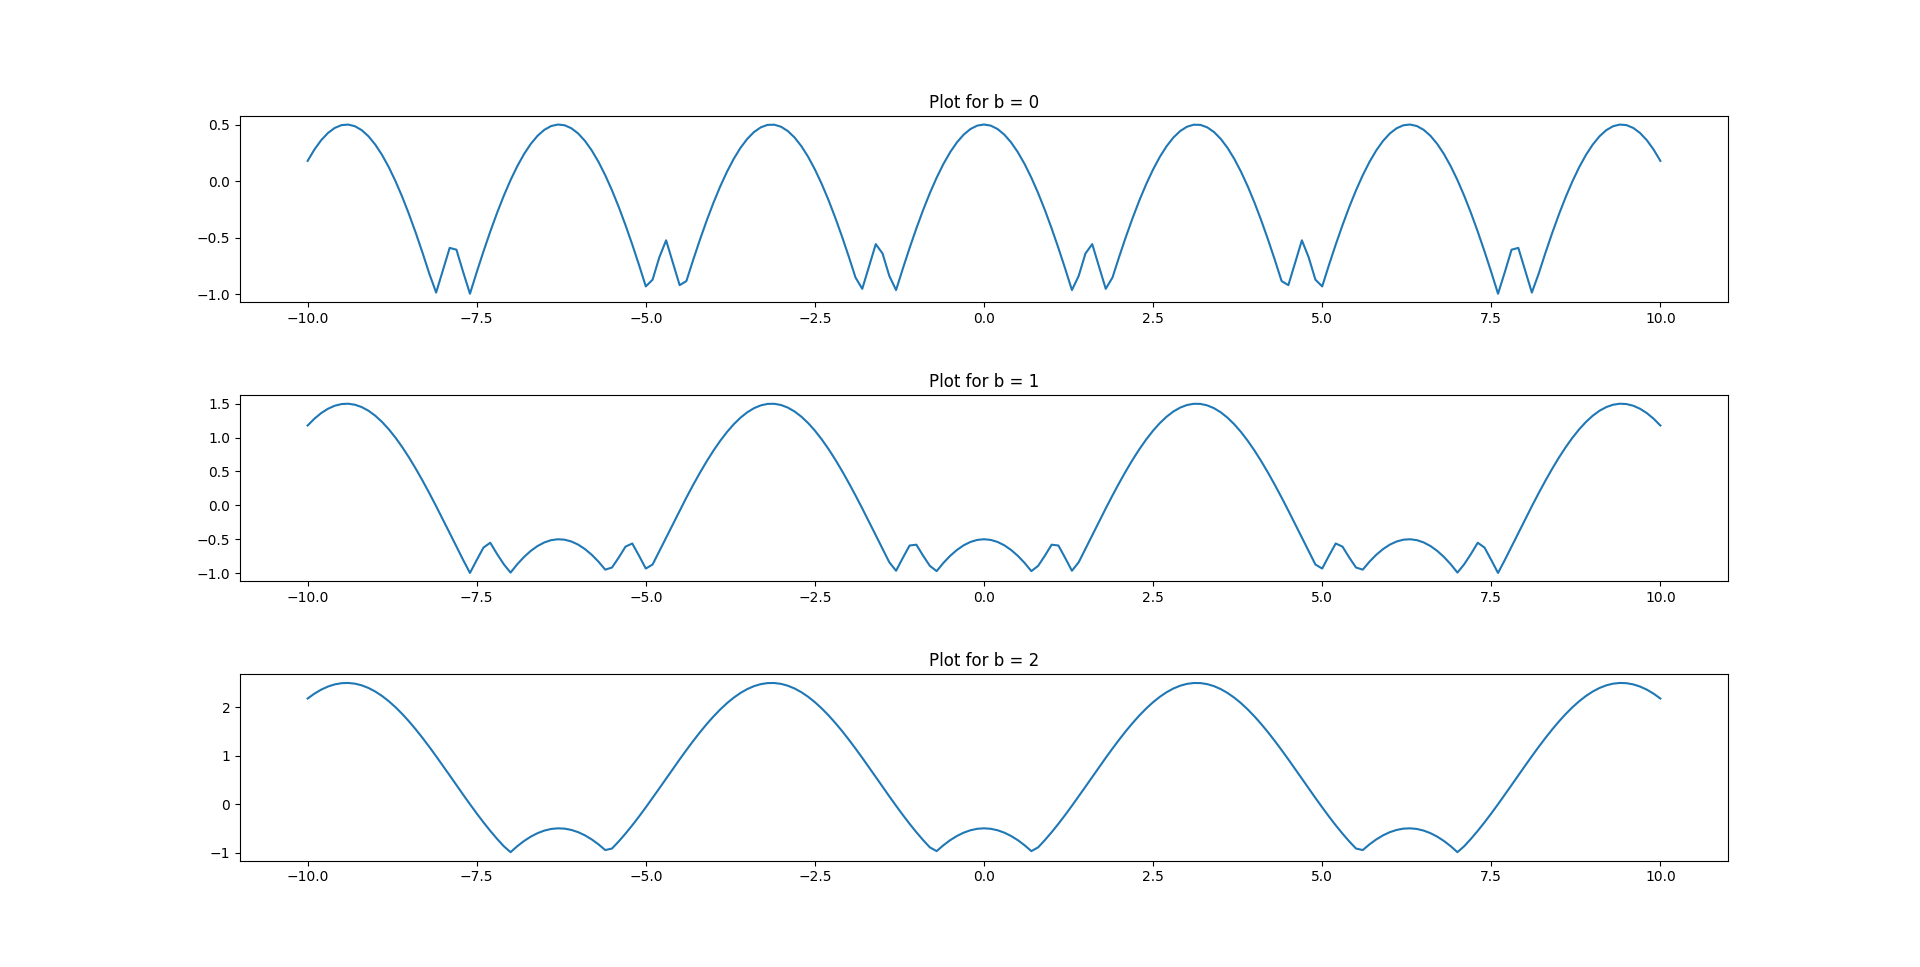
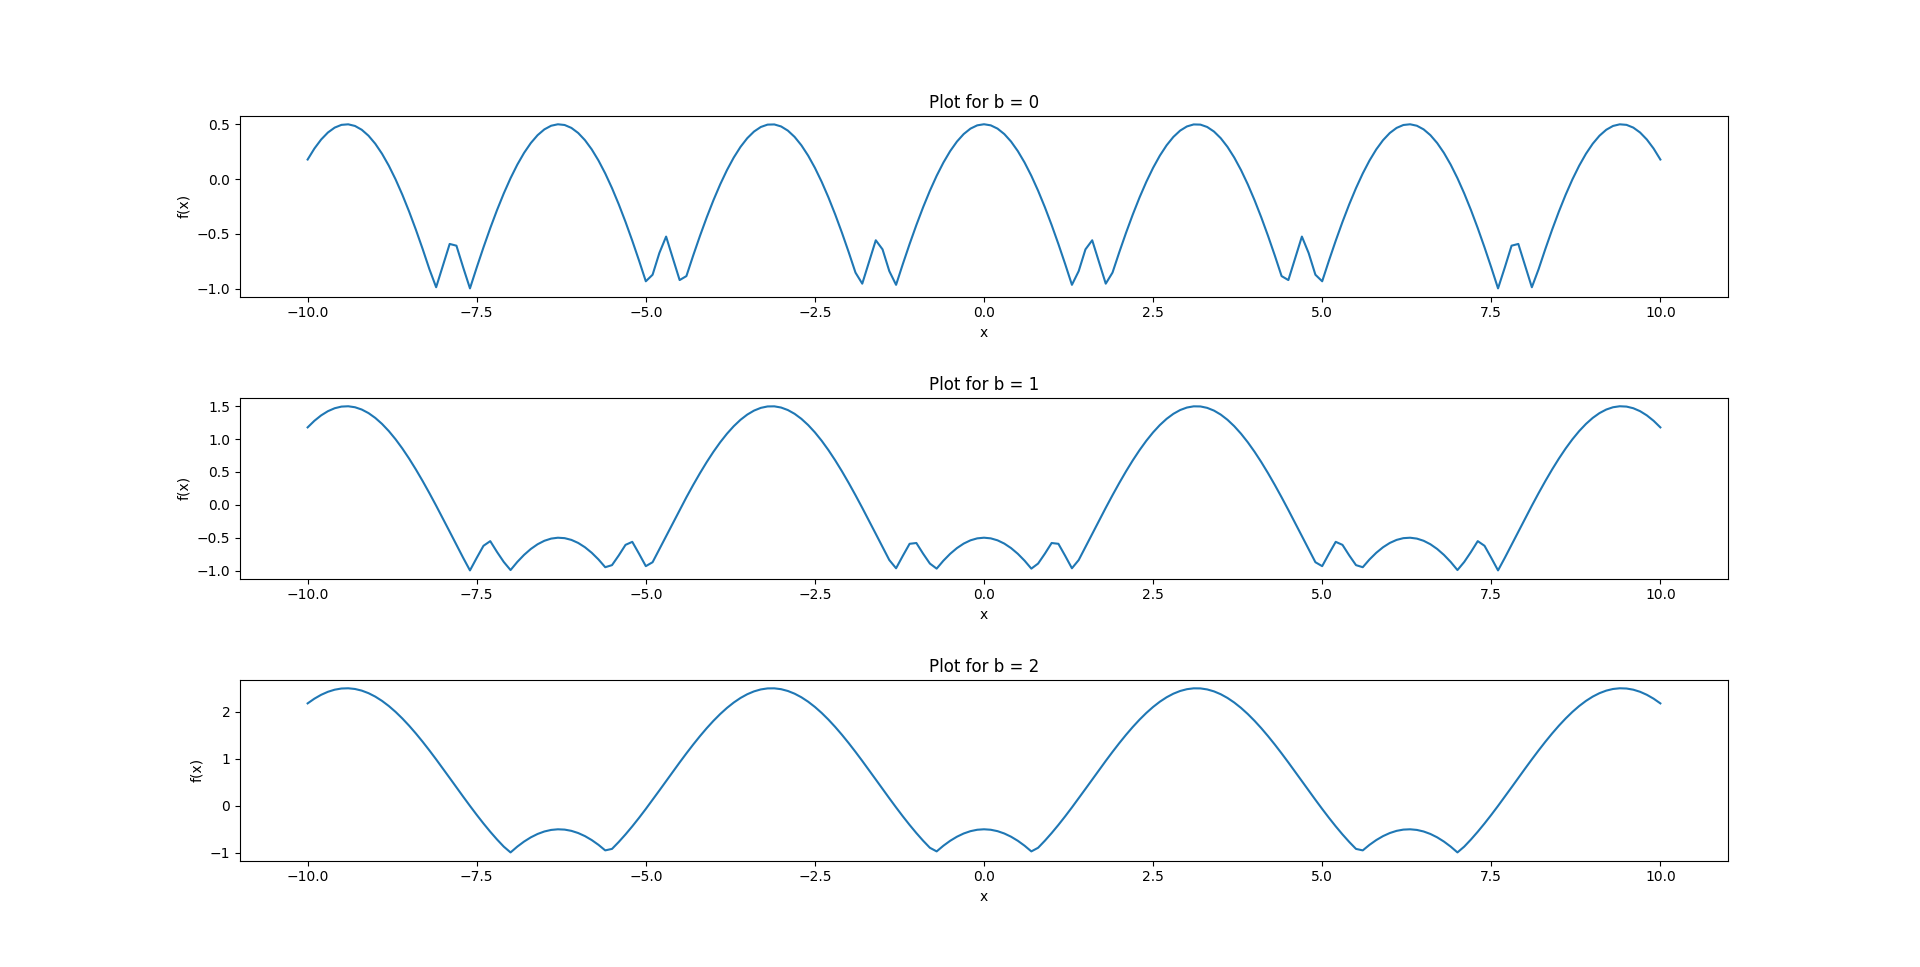
doin a little hw

diff --git a/assignments/HW2C.py b/assignments/HW2C.py
@@ -1,5 +1,6 @@
 import numpy as np
 import matplotlib.pyplot as plt
+import math
 #QUESTION 1 ---------------------
 
 #1A
@@ -46,27 +47,80 @@ for xn in xvals:
     yvals2 = np.append(yvals2, y2_xn)
     
     
-#1C
+#1C ----- WRITTEN STUFF
 
-fig = plt.subplot(311)
-plt.plot(xvals,yvals0)
-plt.title("Plot for b = 0")
-plt.xlabel('x')
-plt.ylabel('f(x)')
+# fig = plt.subplot(311)
+# plt.plot(xvals,yvals0)
+# plt.xlabel('x')
+# plt.ylabel('f(x)')
+# plt.title("Plot for b = 0")
+
+# fig = plt.subplot(312)
+# plt.plot(xvals,yvals1)
+# plt.title("Plot for b = 1")
+# plt.xlabel('x')
+# plt.ylabel('f(x)')
+
+# fig = plt.subplot(313)
+# plt.plot(xvals,yvals2)
+# plt.title("Plot for b = 2")
+# plt.xlabel('x')
+# plt.ylabel('f(x)')
+
+#plt.show()
 
 
-fig = plt.subplot(312)
-plt.plot(xvals,yvals1)
-plt.title("Plot for b = 1")
-plt.xlabel('x')
-plt.ylabel('f(x)')
+#QUESTION 2
+
+#2B
+
+def T(x,n):
+    taylor_sum = 0
+    for k in range(n + 1): #ranges from 0 to n
+        term = ((-1)**k / math.factorial(2*k)) * x**(2*k)
+        taylor_sum = (taylor_sum + term)
+        
+    return taylor_sum
+
+#2C
+# find T0(2), T1(3), and T2(-1) by plugging the appropriate values of x and n into your T(x,n) function. call these values T02, T13, and T2m1 respectively
+
+T02 = T(2,0)
+T13 = T(3,1)
+T2m1 = T(-1,2)
+
+# print("T02: ", T02)
+# print("T13: ", T13)
+# print("T2m1: ", T2m1)
+
+#2D
+xtaylor = np.linspace(-np.pi, np.pi, 51)
+print (xtaylor)
+
+#2E
+rows = []
+for n in range(6): #goes from 0 to 5
+    row = T(xtaylor, n) #compute all T_n(x) values for x in the xtaylor
+    rows.append(row) #add the row to the list
+    
+Mtaylor = np.array(rows)
+#print("Mtaylor: ", Mtaylor)
+
+#2F ---------- WRITTEN STUFF
+# x = np.linspace(-10,10,1001)
+# plt.plot(x, T(x, 0), "g-", label="T\\_0(x)")
+# plt.plot(x, T(x, 2), "r:", label="T\\_2(x)")
+# plt.plot(x, T(x, 4), "b--", label="T\\_4(x)")
+# plt.plot(x, np.cos(x), "k-.", label="cos(x)")
+
+# plt.xlabel("x values")
+# plt.ylabel("y values")
+# plt.title("Functions cos(x) and its taylor series'")
+# plt.legend()
+
+# plt.ylim(-np.pi,np.pi)
+# plt.show()
 
 
-
-fig = plt.subplot(313)
-plt.plot(xvals,yvals2)
-plt.title("Plot for b = 2")
-plt.xlabel('x')
-plt.ylabel('f(x)')
-
-plt.show()
+    
+    
